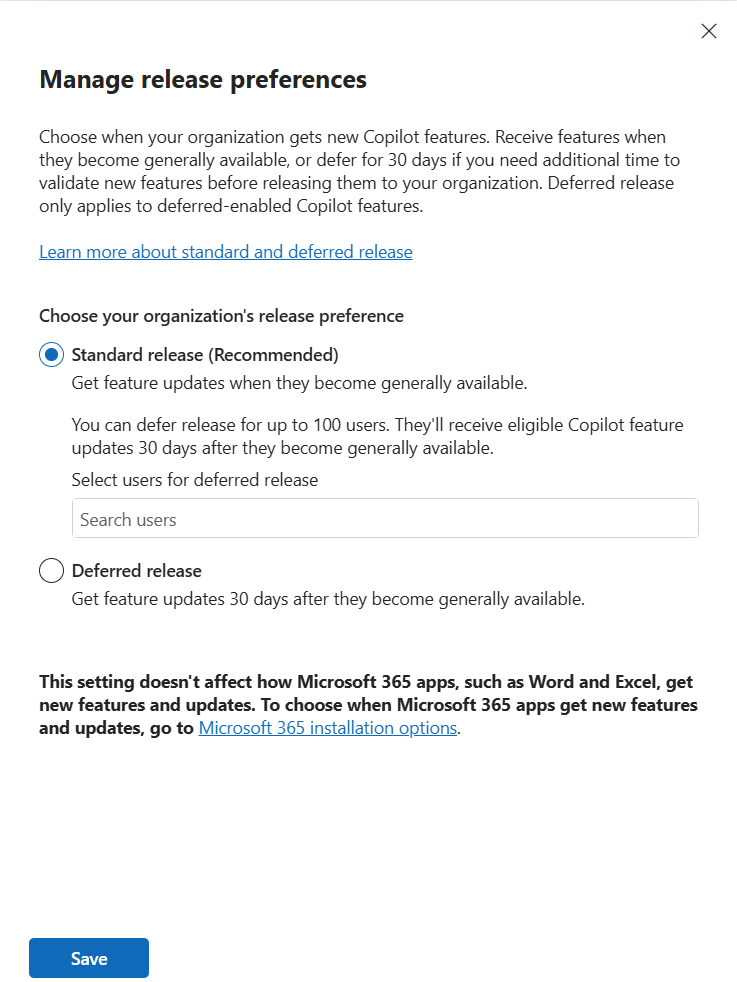
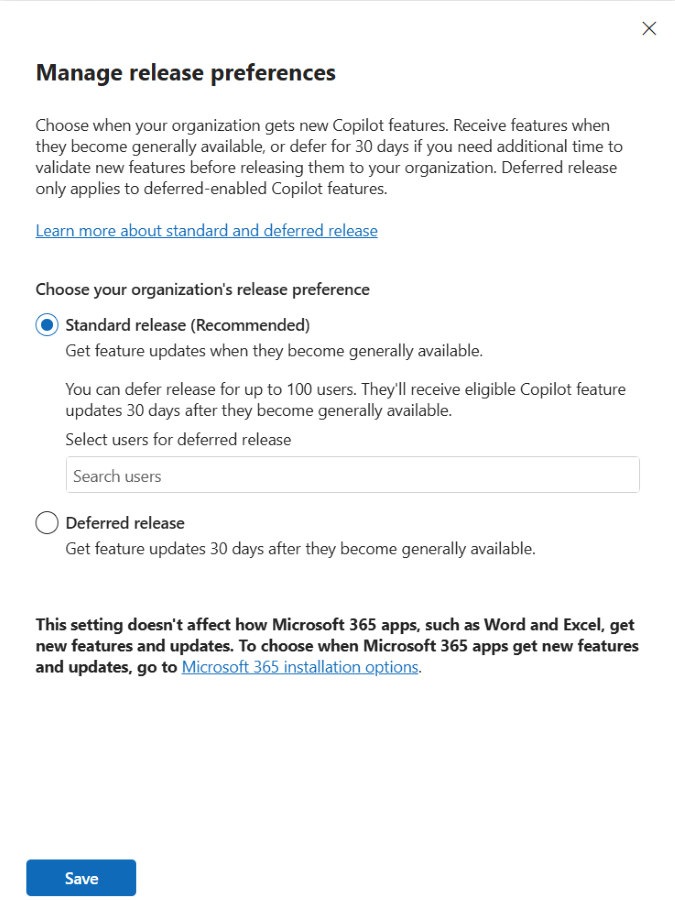
Acrolinx + image resize

diff --git a/microsoft-365/admin/manage/message-center.md b/microsoft-365/admin/manage/message-center.md
@@ -5,7 +5,7 @@ f1.keywords:
 ms.author: mabond
 author: mkbond007
 manager: dansimp
-ms.date: 04/14/2026
+ms.date: 04/15/2026
 ms.reviewer: brimcg
 audience: Admin
 ms.topic: how-to
@@ -165,7 +165,7 @@ We use machine translation to automatically display messages in your preferred l
 
 ## Service & monthly active users
 
-When you open a message center post, we'll tell you the number of users who have been using that Microsoft 365 app or service in the **Service & monthly active users** section. The numbers are for the last 28 days. This info can help you prioritize which changes you should work on.
+When you open a message center post, we tell you the number of users who have been using that Microsoft 365 app or service in the **Service & monthly active users** section. The numbers are for the last 28 days. This info can help you prioritize which changes you should work on.
 
 :::image type="content" source="../../media/msgctr-mau-teams.png" alt-text="Screenshot: Showing the Microsoft Teams Chat density page in the message center post with monthly active user data":::
 
@@ -185,23 +185,23 @@ Here's a quick overview of the information in each column.
 |Column|Description|
 |---|---|
 |Check mark|Selecting the check mark in the column heading row selects all messages currently displayed. Selecting the check mark next to one or more messages lets you take action on those messages.|
-|Message title|Message titles are brief descriptions of upcoming changes. If the full title doesn't display, hover your cursor over it and the entire title will appear in a pop-up box.|
+|Message title|Message titles are brief descriptions of upcoming changes. If the full title doesn't display, hover your cursor over it and the entire title appears in a pop-up box.|
 |More options|More options let you dismiss a message, mark it as read or unread, or share it with another admin. To restore an archived message, select the **Archive** tab, select the check mark next to the message, and select **Restore**.|
-|Favorite|You can select the star to mark a message as a favorite. Once you have marked messages as favorite, you can also sort and filter them.|
+|Favorite|You can select the star to mark a message as a favorite. Once you mark messages as favorite, you can also sort and filter them.|
 |Service|Icons indicate the application to which the message applies.|
 |Last updated|Date that the message was published or last updated.|
 |Timing of change|Allows you to sort and filter posts by when a rollout is planned.|
-|Act by|We'll only have dates here if we're making a change that requires you to take an action by a certain deadline. Since we rarely use the **Act by** column, if you see something here, you should pay extra attention to it.|
+|Act by|We only have dates here if we're making a change that requires you to take an action by a certain deadline. Since we rarely use the **Act by** column, if you see something here, you should pay extra attention to it.|
 |Relevance|Relevance is our recommendation based on the potential impact to your organization and the usage of affected services.|
 |Status for your org|This column only shows a status if the service is supported or if it's applicable.|
 |Tag|You can choose tags from the Tag drop-down to filter messages. <br> <p> **Data Privacy**: Data privacy notification (limited to global administrator and Message center Privacy reader roles). <p> **Major update**: Changes communicated at least 30 days in advance ([Major updates](#major-updates)). <p> **Retirement**: Retirement of a service or feature. <p> **New feature**: New feature or service. <p> **Feature update**: Update to an existing feature. <p> **Admin impact**: When the change clearly impacts the admin in the following ways - UI change, workflow change, control available, and Specific/Potential Action. <p> **User impact**: When the change to the service clearly impacts the user - UI Change and workflow change. <p> **Updated message**: When a message is updated.|
 |Platform|The platform that’s affected by the Message center post.|
-|Category|This isn't shown by default, but can be specified in the **Choose columns** panel. Messages are identified by one of the following three categories: <p> **Prevent or fix issues**: Informs you of known issues affecting your organization and might require that you take action to avoid disruptions in service. Prevent or fix issues are different than Service health messages because they prompt you to be proactive to avoid issues. <p> **Plan for change**: Informs you of changes to Microsoft 365 that might require you to act to avoid disruptions in service. For example, we let you know about changes to system requirements or about features that are being removed. We try to provide at least 30 days' notice of any change that requires an admin to act to keep the service running normally. <p> **Stay informed**: Tells you about new or updated features we're turning on in your organization. announced first in the [Microsoft 365 Roadmap](https://go.microsoft.com/fwlink/?linkid=2070821). <p> Also lets you know about planned maintenance in accordance with our Service Level Agreement. Planned maintenance might result in down time, where you or your users can't access Microsoft 365, a specific feature, or a service such as email or OneDrive.|
+|Category|This column isn't shown by default, but can be specified in the **Choose columns** panel. Messages are identified by one of the following three categories: <p> **Prevent or fix issues**: Informs you of known issues affecting your organization and might require that you take action to avoid disruptions in service. Prevent or fix issues are different than Service health messages because they prompt you to be proactive to avoid issues. <p> **Plan for change**: Informs you of changes to Microsoft 365 that might require you to act to avoid disruptions in service. For example, we let you know about changes to system requirements or about features that are being removed. We try to provide at least 30 days' notice of any change that requires an admin to act to keep the service running normally. <p> **Stay informed**: Tells you about new or updated features we're turning on in your organization. announced first in the [Microsoft 365 Roadmap](https://go.microsoft.com/fwlink/?linkid=2070821). <p> Also lets you know about planned maintenance in accordance with our Service Level Agreement. Planned maintenance might result in down time, where you or your users can't access Microsoft 365, a specific feature, or a service such as email or OneDrive.|
 |Message ID|Microsoft tracks our Message center posts by message ID. You can refer to this ID if you want to give feedback or if you call Support about a particular message.|
 
 ### Admin roles that don't have access to the Message center
 
-Most users assigned any admin role in Microsoft 365 can view Message center posts. You can also assign the** Message center reader role** to users who should be able to read and share Message center posts without having any other admin privileges.
+Most users assigned any admin role in Microsoft 365 can view Message center posts. You can also assign the **Message center reader role** to users who should be able to read and share Message center posts without having any other admin privileges.
 
 The following admin roles don't have access to the Message center:
 

diff --git a/microsoft-365/admin/manage/release-options-faq.md b/microsoft-365/admin/manage/release-options-faq.md
@@ -1,5 +1,5 @@
 ---
-title: "Frequently asked questions about release options for Microsoft 365"
+title: "Frequently asked questions about modern release options for Microsoft 365"
 ms.author: mabond
 author: mkbond007
 manager: dansimp
@@ -22,16 +22,16 @@ appliesto:
 - Microsoft 365 admin center
 ---
 
-# Frequently asked questions about modernrelease options for Microsoft 365
+# Frequently asked questions about modern release options for Microsoft 365
 
 This article provides answers to frequently asked questions that IT admins might have about release options in Microsoft 365. For more information about modern release options in Microsoft 365, see [Modern change management for Microsoft 365 - Overview](plan-for-change-management.md) and [Configure modern release options](configure-release-options.md).
 
-> [NOTE!]
+> [!NOTE]
 > Deferred release only supports features identified as both major updates *and* that are deferred-capable. For information on which features are deferred-capable, check Message Center posts.
 
 ## Can I choose which users get Microsoft 365 features earlier vs later?
 
-Yes, within the same tenant, you can choose the following:
+Yes, within the same tenant, you can choose from the following options:
 
 - Assign most users to standard release and assign a subset of users to deferred release, or
 - Assign most users to deferred release and assign a small group of early adopters to standard release
@@ -71,7 +71,7 @@ If Microsoft finds a quality issue during rollout:
 
 - Microsoft pauses the rollout.
 - Users who haven’t received the feature won’t get it.
-- If needed, Microsoft may remove the feature from users who already received it.
+- If needed, Microsoft might remove the feature from users who already received it.
 
 Deferred release users won't receive a feature that Microsoft rolls back before it reaches them.
 
@@ -79,7 +79,7 @@ Deferred release users won't receive a feature that Microsoft rolls back before 
 
 No, deferred release provides time to evaluate production-ready, generally available features. It works alongside existing admin controls, feature-level enable/disable settings (when available).
 
-You may still request additional controls through your Microsoft account team if needed.
+You can still request additional controls through your Microsoft account team if needed.
 
 ## How does Message center support deferred release?
 
@@ -97,7 +97,7 @@ Yes, if your organization needs more time for validating deferred-capable featur
 
 ## Does deferred release apply to features that aren't major changes?
 
-No, even if you have users in deferred release, a feature that isn’t classified as a major change and deferred-eligible via Message center will still release to users when the feature is broadly available.
+No, even if you have users in deferred release, a feature that isn’t classified as a major change and deferred-eligible via Message center still releases to users when the feature is broadly available.
 
 ## How does deferred release affect Frontier features?
 
@@ -105,7 +105,7 @@ Deferred release doesn't apply to Frontier program features. Deferred release en
 
 ## Where can I find guidance on these new features and updates?
 
-Check for updates to this article, [Modern change management for Microsoft 365 - Overview](plan-for-change-management.md), as well as Message Center posts and the [Microsoft 365 Roadmap](https://www.microsoft.com/microsoft-365/roadmap) for more information about the modern change communications coming to Microsoft 365.
+Check for updates to this article, [Modern change management for Microsoft 365 - Overview](plan-for-change-management.md), Message Center posts, and the [Microsoft 365 Roadmap](https://www.microsoft.com/microsoft-365/roadmap) for more information about modern change communications coming to Microsoft 365.
 
 ## Do standard release and deferred release options affect Microsoft 365 App release options?
 
@@ -113,7 +113,7 @@ No. For information about release options for Microsoft 365 Apps, see [Overview 
 
 ## How does this impact targeted release?
 
-If your organization is using [targeted release](release-options-in-office-365.md) for other Microsoft 365 services, you can continue to do so as we drive towards our converged release strategy. We recommend configuring release preferences for frontier, standard, and deferred audiences to align with the new release model as Microsoft begins delivering an increasing number of major features through it over time. Use the Microsoft Message Center to keep up with new products and services using this audience-based release model.
+If your organization is using [targeted release](release-options-in-office-365.md) for other Microsoft 365 services, you can continue to do so as we drive towards our converged release strategy. We recommend configuring release preferences for frontier, standard, and deferred audiences to align with the new release model as Microsoft begins delivering an increasing number of major features through it over time. Use the Microsoft Message center to keep up with new products and services using this audience-based release model.
 
 ## Related articles
 

diff --git a/microsoft-365/admin/manage/message-center-updates.md b/microsoft-365/admin/manage/message-center-updates.md
@@ -3,10 +3,10 @@ title: "Message center updates"
 ms.author: mabond
 author: mkbond007
 manager: dansimp
-ms.date: 04/14/2026
+ms.date: 04/15/2026
 ms.reviewer: brimcg
 audience: Admin
-ms.topic: how-to
+ms.topic: release-notes
 ms.service: microsoft-365-business
 ms.localizationpriority: medium
 search.appverid: MET150
@@ -28,7 +28,7 @@ The Microsoft 365 Message center is now more timely, relevant, and concise to su
 
 A new **Timing of change** column allows you to sort and filter posts by when a rollout is planned. To view a list of all available columns and their descriptions, see [Message center in the Microsoft 365 admin center](message-center.md).
 
-For AI-powered workflows, you can use Microsoft MCP Server for Enterprise. For more information, see [Overview of Microsoft MCP Server for Enterprise](/graph/mcp-server/overview).
+For AI-powered workflows, you can use Microsoft Model Context Protocol (MCP) Server for Enterprise. For more information, see [Overview of Microsoft MCP Server for Enterprise](/graph/mcp-server/overview).
 
 Message Center posts now include a dedicated section that describes known security and compliance considerations for each feature release. This inclusion helps admins, especially those in highly regulated industries, with security and compliance-specific information necessary to understand potential compliance and regulatory impact for each feature.
 
@@ -59,7 +59,7 @@ This section helps you understand who and what is affected and includes the foll
 
 - Who's affected: Scope of impact (for example, all users, specific roles, tenants)
 - Platforms/Services: Where the change applies (for example, Teams, Outlook, mobile, desktop)
-- What will happen with clear bullet points describing:
+- What will happen describes the following information::
   - UI changes
   - Feature behavior
   - Default settings
@@ -83,7 +83,6 @@ This section identifies any implications for data handling and governance and in
 - AI/ML interactions with customer data
 - Communication or access changes
 - Impact on Purview capabilities (for example, DLP, eDiscovery)
-- GDPR-related changes
 - Admin control availability and Microsoft Entra ID integration
 - Whether users can self-manage the feature
 

diff --git a/microsoft-365/admin/manage/configure-release-options.md b/microsoft-365/admin/manage/configure-release-options.md
@@ -46,7 +46,7 @@ Microsoft feature teams validate each new release first, followed by the Microso
 
 As shown in the following figure, you can now use a modern, audience-based release model that includes the Frontier program, Standard release, and Deferred release as release options.
 
-:::image type="content" source="../../media/audience-based-release-model.png" alt-text="Figure displaying audience-based release audiences for Microsoft 365.":::
+:::image type="content" source="../../media/audience-based-release-model.png" lightbox="../../media/audience-based-model-expanded.png" alt-text="Figure displaying audience-based release audiences for Microsoft 365.":::
 
 For a comparison of release options, see the following table:
 
@@ -97,9 +97,6 @@ To assign users to the Deferred release audience, follow these steps:
 
 1. Under the **All Settings** tab, select **Copilot release preferences: General Availability**.
 1. Choose either **Standard Release** or **Deferred Release**.
-
-    :::image type="content" source="../../media/microsoft365-release-options-standard.png" alt-text="Screenshot of standard release and deferred release options in Microsoft 365 admin center.":::
-
 1. Add any user exceptions. You can add up to 100 user exceptions to Standard release or Deferred release.
     - If you want to only assign a specific user to deferred release, select **Standard Release**, search for the user, and select their name.
 

diff --git a/microsoft-365/admin/manage/mrc-mcp.md b/microsoft-365/admin/manage/mrc-mcp.md
@@ -3,9 +3,9 @@ title: "Get started with the Microsoft Release Communications MCP Server"
 ms.author: mabond
 author: mkbond007
 manager: dansimp
-ms.date: 04/14/2026
+ms.date: 04/15/2026
 audience: Admin
-ms.topic: how-to
+ms.topic: get-started
 ms.service: microsoft-365-business
 ms.localizationpriority: medium
 ms.collection:

diff --git a/microsoft-365/admin/manage/plan-for-change-management.md b/microsoft-365/admin/manage/plan-for-change-management.md
@@ -6,7 +6,7 @@ manager: dansimp
 ms.date: 04/15/2026
 ms.reviewer: pamelaar
 audience: Admin
-ms.topic: how-to
+ms.topic: overview
 ms.service: microsoft-365-business
 ms.localizationpriority: medium
 ms.collection:
